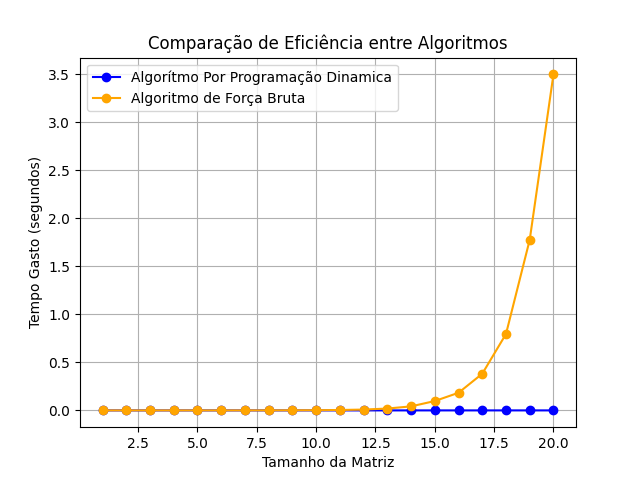
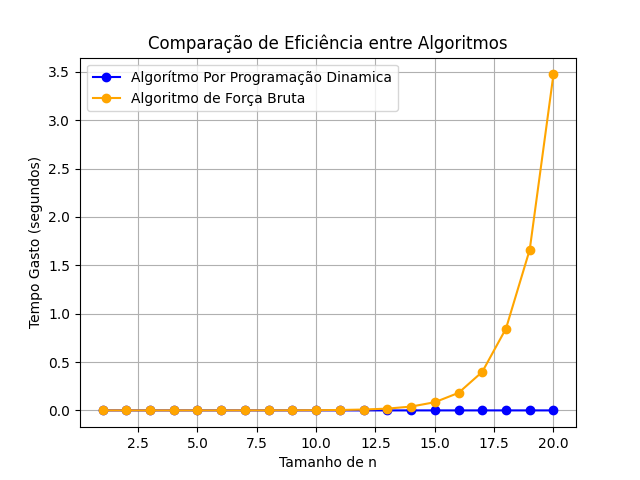
fix

diff --git a/Trabalho 2 - Linha de Montagem/main.py b/Trabalho 2 - Linha de Montagem/main.py
@@ -22,12 +22,6 @@ def tempo_gastado(func):
 import random
 
 def gerar_tempos(n):
-    """
-    Gera aleatoriamente os tempos nas estações e de transferência para um dado N.
-    Retorna:
-    - a: matriz 2xN com tempos nas estações
-    - t: matriz 2x(N-1) com tempos de transferência entre linhas
-    """
     a = [[random.randint(1, 10) for _ in range(n)],  # Linha 1
          [random.randint(1, 10) for _ in range(n)]]  # Linha 2
     t = [[random.randint(1, 10) for _ in range(n - 1)],  # Transferência da linha 1 para 2
@@ -43,31 +37,22 @@ def linha_de_montagem(n, a, t, e, x):
     e  -> Tempo de entrada nas linhas (lista de tamanho 2)
     x  -> Tempo de saída das linhas (lista de tamanho 2)
     """
-    # Inicializando as tabelas de tempo mínimo
+
     f1 = [0] * n
     f2 = [0] * n
 
-    # Condições iniciais
     f1[0] = e[0] + a[0][0]
     f2[0] = e[1] + a[1][0]
 
-    # Preenchendo as tabelas usando as relações de recorrência
     for j in range(1, n):
         f1[j] = min(f1[j-1] + a[0][j], f2[j-1] + t[1][j-1] + a[0][j])
         f2[j] = min(f2[j-1] + a[1][j], f1[j-1] + t[0][j-1] + a[1][j])
 
-    # Resultado final considerando o tempo de saída
     return min(f1[n-1] + x[0], f2[n-1] + x[1])
 
 @tempo_gastado
 def linha_de_montagem_forca_bruta(n, a, t, e, x):
-    """
-    n  -> Número de estações por linha
-    a  -> Tempo nas estações (matriz 2xN)
-    t  -> Tempo de transferência entre linhas (matriz 2x(N-1))
-    e  -> Tempo de entrada nas linhas (lista de tamanho 2)
-    x  -> Tempo de saída das linhas (lista de tamanho 2)
-    """
+    
     tempo_minimo = float('inf')  # Inicializar o tempo mínimo como infinito
     total_combinacoes = 2 ** n   # Número total de combinações (2^n)
 
@@ -115,7 +100,7 @@ def gerarGrafico(ordem):
 
     # Adicionando título e rótulos
     ax.set_title('Comparação de Eficiência entre Algoritmos')
-    ax.set_xlabel('Tamanho da Matriz')
+    ax.set_xlabel('Tamanho de n')
     ax.set_ylabel('Tempo Gasto (segundos)')
 
     ax.legend()
@@ -139,5 +124,4 @@ if __name__ == "__main__":
         print(f"Com {n} estações: PD = {tempo_pd}, Força Bruta = {tempo_fb}")
 
     # Gerar gráfico de custo
-    print(gasto)
     gerarGrafico(N_max)
